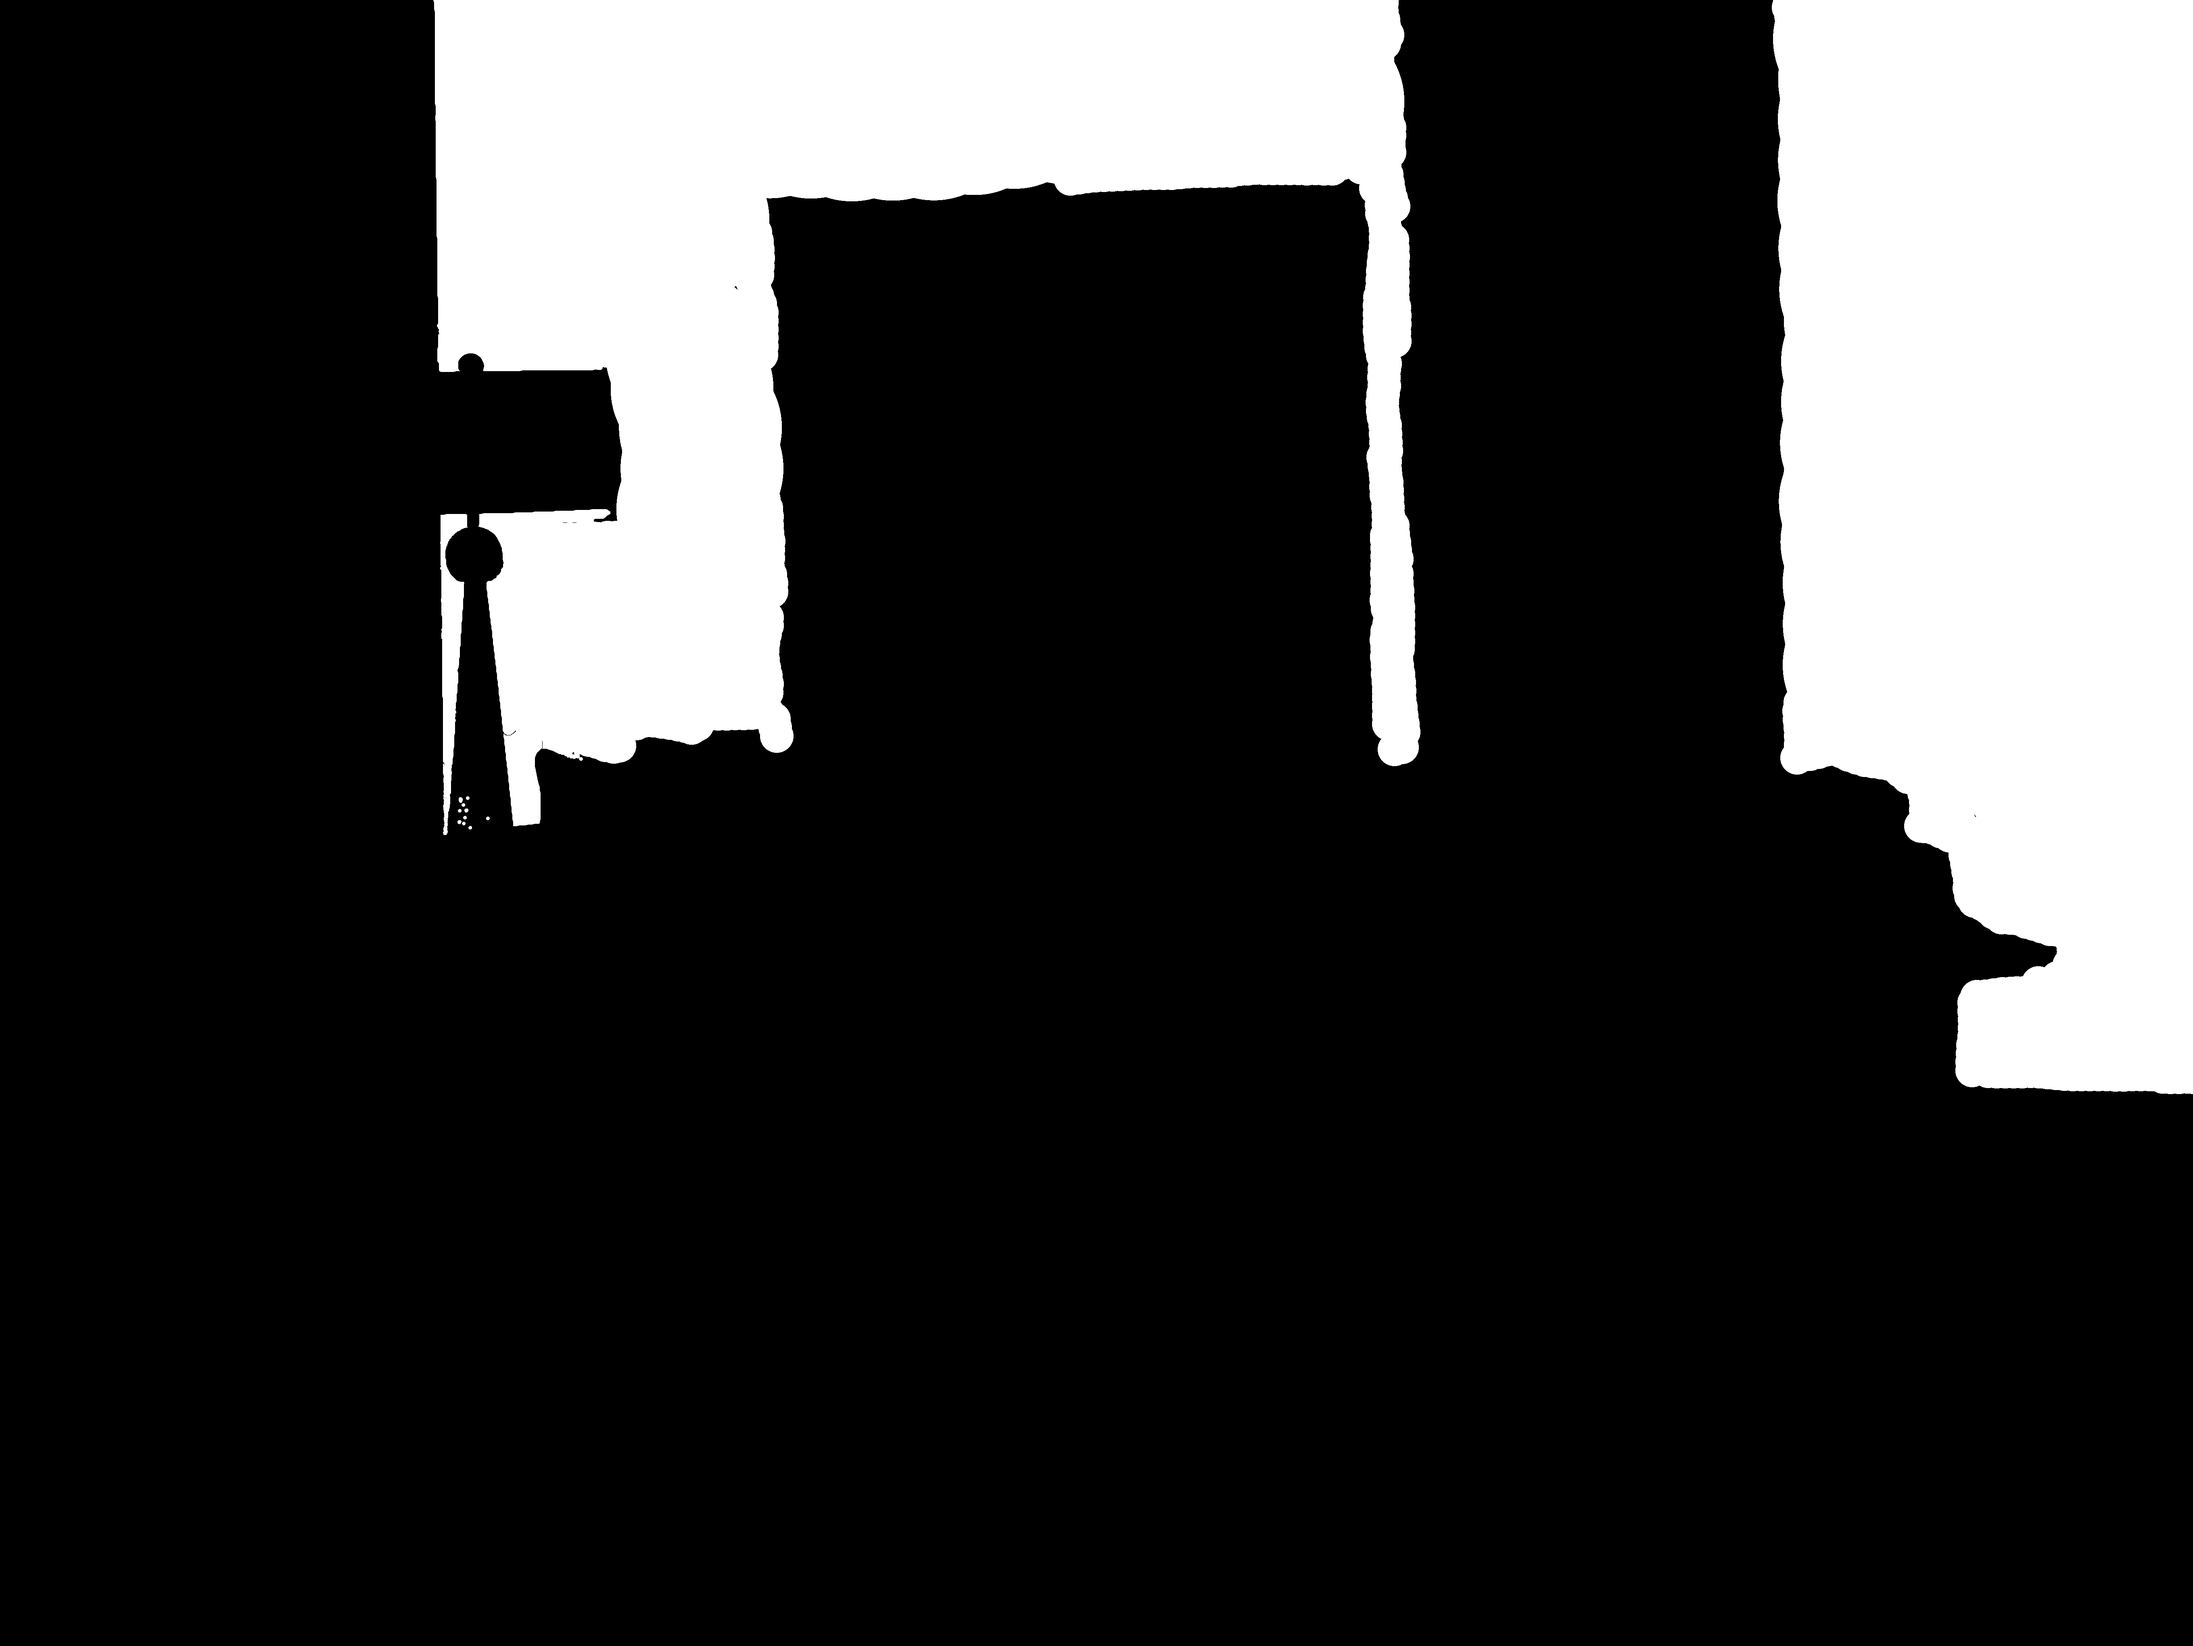
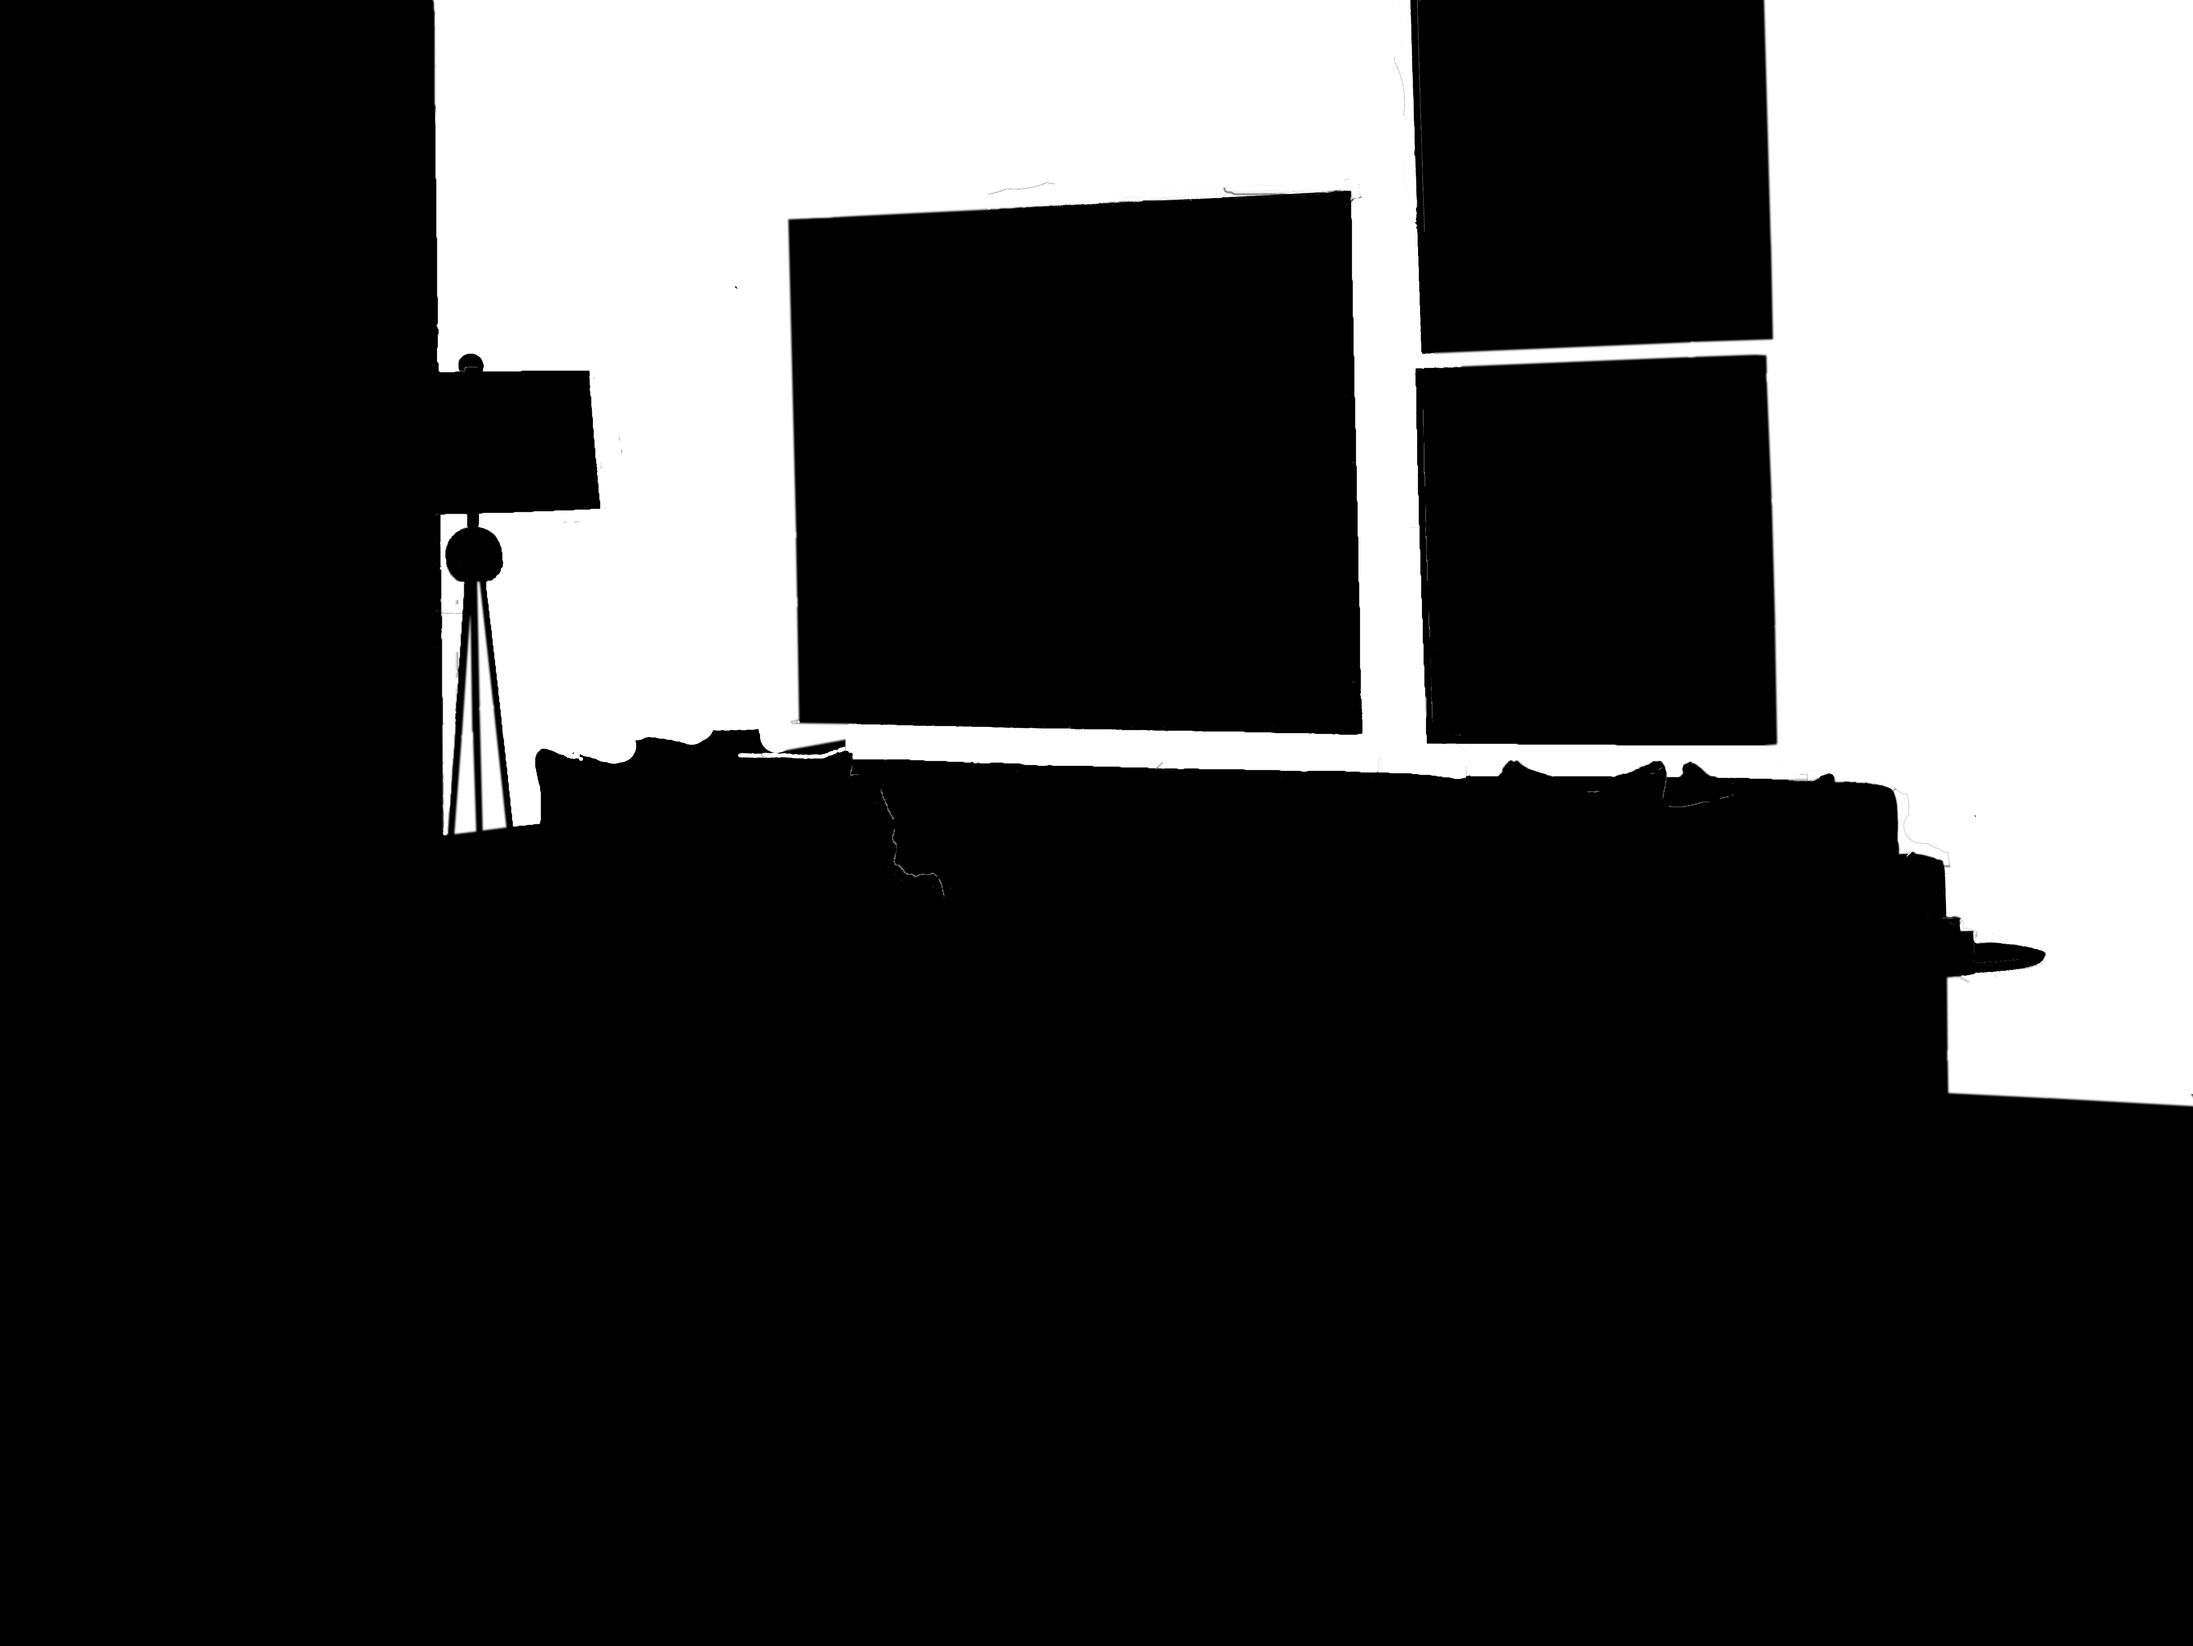
Small changes

diff --git a/style.css b/style.css
@@ -2,8 +2,6 @@
 TO TEST:
 save large, low quality JPG versions of images, use sizes: 200vw to request large and have browsers shrink them;
 
-Reduce size of split between panes to be a function of vw
-
 SMALL VIEWPORT ADJUSTMENTS:
 change font to regular weight raleway
 
@@ -75,7 +73,8 @@ ul, li {
 
   --color-background-dark: #393437;
   --color-background-dark-rgba: rgba( 57, 52, 55, .5 );
-  --color-title: #c65f47;  /*#ffa541*/
+  --color-title: #ffa541;  /*#c65f47*/
+  --color-white: #fff;
 
 
   --shadow-transition-delay: 0.7s;
@@ -98,6 +97,7 @@ ul, li {
 .color__details,
 .intro__wrapper,
 .intro-pane,
+.solid-overlay,
 .navigation__wrapper {
     height: 100%;
     left: 0;
@@ -262,7 +262,8 @@ ul, li {
 }
 
 .intro-pane-colors {
-  background-color: #fff;
+  background-color: var( --color-white );
+  border: 2px solid var( --color-white );
   flex-direction: row;
   overflow: hidden;
   position: absolute;
@@ -307,16 +308,16 @@ ul, li {
 }
 
 .intro-pane-color-mask::after {
-  border: var( --intro-color-dot-border-size ) solid #00f;
+  border: var( --intro-color-dot-border-size ) solid var( --color-white );
   border-radius: 50%;
   box-sizing: border-box;
-  height: calc( var( --intro-color-dot-size ) + ( var( --intro-color-dot-border-size ) * 2 ) );
+  height: calc( var( --intro-color-dot-size ) + ( var( --intro-color-dot-border-size ) * 1.5 ) );
   /*left: calc( ( var( --intro-color-dot-size ) + var( --intro-color-dot-border-size ) ) / ( 2 * var( --intro-color-dot-size ) ) * -1 );*/
-  left: calc( -1 * var( --intro-color-dot-border-size ) );
+  left: calc( -.75 * var( --intro-color-dot-border-size ) );
   /*top: calc( ( var( --intro-color-dot-size ) + var( --intro-color-dot-border-size ) ) / ( 2 * var( --intro-color-dot-size ) ) * -1 );*/
       /*left: -25%;*/
-    top: calc( -1 * var( --intro-color-dot-border-size ) );
-  width: calc( var( --intro-color-dot-size ) + ( var( --intro-color-dot-border-size ) * 2 ) );
+    top: calc( -.75 * var( --intro-color-dot-border-size ) );
+  width: calc( var( --intro-color-dot-size ) + ( var( --intro-color-dot-border-size ) * 1.5 ) );
 }
 
 /*.intro-color--color-2 {
@@ -481,6 +482,7 @@ ul, li {
   font-size: 17vw;
   letter-spacing: 0;
   opacity: 1;
+  z-index: 9;
 }
 
 .state-detail .solid-overlay {

diff --git a/index.html b/index.html
@@ -8,7 +8,7 @@
 
 <body>
 
-<div id="perfect-app-wrapper" class="state-intro-hue state-lower-room- state-intro state-color-preference state-zoom-room- state-detail- state-transition">
+<div id="perfect-app-wrapper" class="state-intro-hue- state-lower-room- state-intro- state-color-preference state-zoom-room- state-detail- state-transition">
 
 <div class="intro__wrapper">
 	<div class="intro-pane intro__message">
@@ -104,6 +104,7 @@
     <img class="room-image room-image-natural" src="./images/room-sofa.jpg" />
     <div class="room-image solid-overlay solid-overlay--top"></div>
     <div class="room-image color-info">
+    	<div class="solid-overlay solid-overlay--top"></div>
     	<div class="color-number">
         	SW-2019
         </div>

diff --git a/app.js b/app.js
@@ -124,7 +124,7 @@ $( '.intro-pane-color-mask' ).click( function(){
 });
 
 window.setTimeout( function(){
-    $appWrapper.addClass( 'state-app-primed state-test1' );
+    $appWrapper.addClass( 'state-app-primed state-detail' );
 }, 100);
 
 $( window ).resize(function() {
